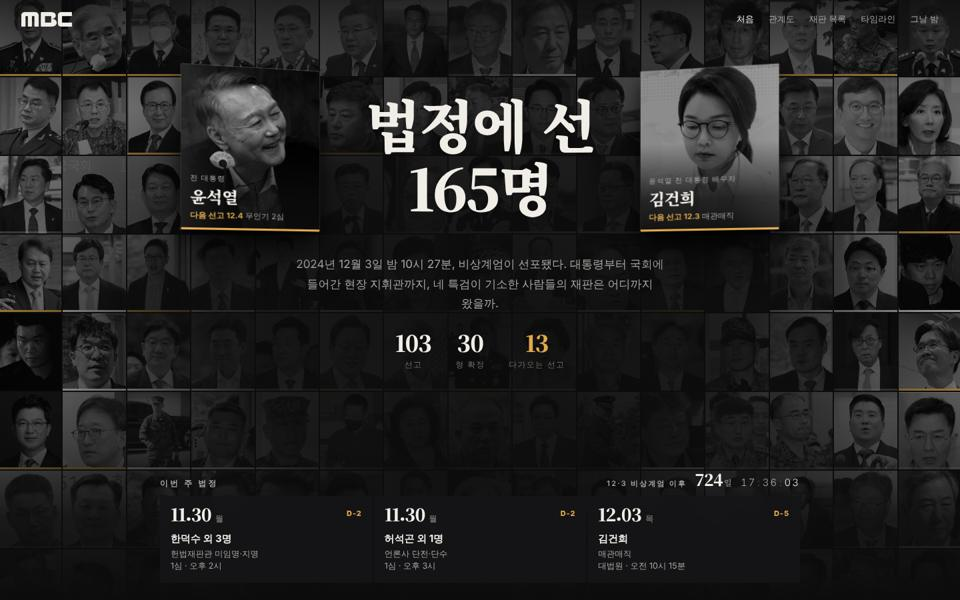
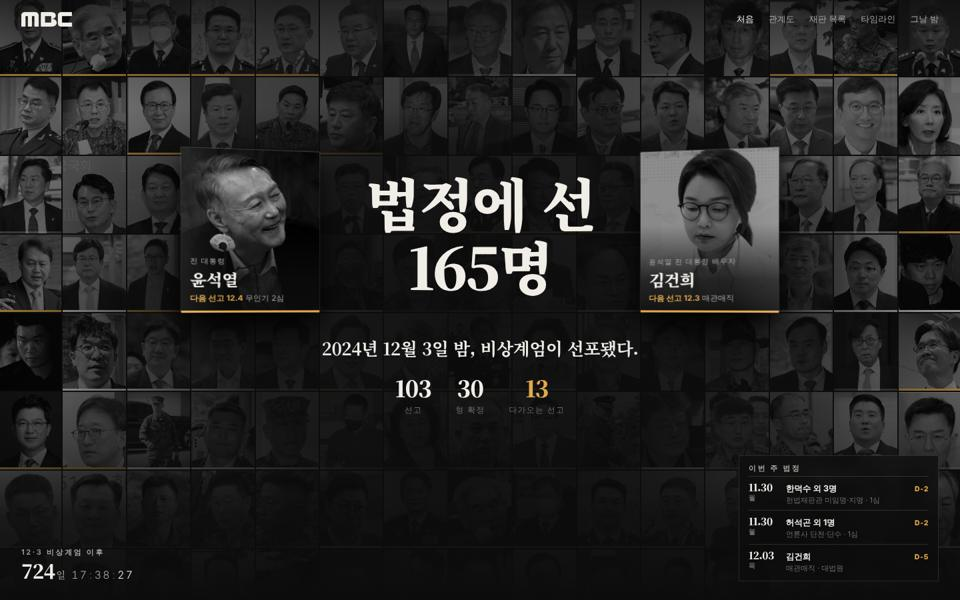
시안 2: 이번 주 법정은 오른쪽 아래 작은 목록, 흐른 시간은 왼쪽 아래, 설명은 한 줄로
Claude-Session: https://claude.ai/code/session_01SN42CiidXmnPBLY7TKBFnm

diff --git a/drafts/home-2.html b/drafts/home-2.html
@@ -37,18 +37,17 @@ body { margin: 0; background: var(--bg); color: var(--fg); font-family: var(--sa
 .veil { position: absolute; inset: 0; pointer-events: none;
   background: radial-gradient(ellipse 58% 58% at 50% 52%, rgba(12,12,13,.96) 0%, rgba(12,12,13,.88) 48%, rgba(12,12,13,.4) 82%, rgba(12,12,13,.2) 100%),
               linear-gradient(180deg, rgba(12,12,13,.75) 0, rgba(12,12,13,0) 18%, rgba(12,12,13,0) 66%, rgba(12,12,13,.85) 86%, var(--bg) 100%); }
-.hero { position: absolute; inset: 0; display: grid; place-items: center; text-align: center; padding: 60px 24px 212px; } /* 아래 212px: 이번 주 법정 칸 */
+.hero { position: absolute; inset: 0; display: grid; place-items: center; text-align: center; padding: 64px 24px 72px; }
 .hero > div { width: min(100%, 1120px); }
 .eyebrow { font-size: 12px; font-weight: 600; letter-spacing: .3em; color: var(--fg-2); }
 /* 흐른 시간: 문장 위 한 줄 */
-.timebar { position: absolute; z-index: 3; left: 0; right: 0; bottom: 34px; display: flex; justify-content: center; align-items: baseline; gap: 18px; text-align: center; }
-.timebar::before, .timebar::after { content: ''; flex: 0 1 120px; height: 1px; align-self: center; background: linear-gradient(90deg, rgba(241,238,232,0), rgba(241,238,232,.35)); }
-.timebar::after { background: linear-gradient(90deg, rgba(241,238,232,.35), rgba(241,238,232,0)); }
-.timebar .tb-l { font-size: 12px; font-weight: 600; letter-spacing: .3em; color: var(--fg-2); }
+.timebar { position: absolute; z-index: 3; left: 32px; bottom: 28px; text-align: left; }
+.timebar .tb-l { display: block; margin-bottom: 6px; font-size: 11px; font-weight: 600; letter-spacing: .24em; color: var(--fg-2); }
+.timebar .clock { justify-content: flex-start; gap: 10px; }
 .clock { display: flex; justify-content: center; align-items: baseline; gap: 14px; font-variant-numeric: tabular-nums; }
-.clock b { font-family: var(--serif); font-size: clamp(28px, 2.4vw, 34px); font-weight: 900; line-height: 1; letter-spacing: -.03em; }
+.clock b { font-family: var(--serif); font-size: clamp(24px, 2vw, 30px); font-weight: 900; line-height: 1; letter-spacing: -.03em; }
 .clock b small { font-size: .5em; font-weight: 500; margin-left: 2px; color: var(--fg-2); }
-.clock span { font-size: clamp(16px, 1.4vw, 20px); font-weight: 300; letter-spacing: .14em; color: var(--fg-2); }
+.clock span { font-size: clamp(14px, 1.1vw, 16px); font-weight: 300; letter-spacing: .14em; color: var(--fg-2); }
 .clock span i { font-style: normal; color: var(--fg-3); margin: 0 .1em; }
 .clock span em { font-style: normal; color: var(--fg); }
 /* 문장 양옆에 두 사람 */
@@ -77,6 +76,7 @@ body { margin: 0; background: var(--bg); color: var(--fg); font-family: var(--sa
 .lift .bar3 { position: absolute; left: 0; right: 0; bottom: 0; z-index: 1; height: 3px; background: var(--amber); }
 #liftY { --ry: 11deg; --sheen: 100deg; }
 #liftK { --ry: -11deg; --sheen: 260deg; }
+.hero p.line { margin: clamp(44px, 6.5vh, 64px) 0 0; max-width: none; white-space: nowrap; font-family: var(--serif); font-size: clamp(20px, 1.9vw, 26px); font-weight: 700; line-height: 1.3; letter-spacing: -.02em; color: var(--fg); }
 .hero p { margin: clamp(40px, 6vh, 60px) auto 0; max-width: 34em; font-size: 17px; line-height: 1.75; color: var(--fg-2); }
 .stats { display: flex; justify-content: center; gap: 36px; margin-top: 26px; }
 .stats div { text-align: center; }
@@ -92,20 +92,16 @@ body { margin: 0; background: var(--bg); color: var(--fg); font-family: var(--sa
 .legend li { display: flex; align-items: center; gap: 12px; padding: 10px 0; border-top: 1px solid var(--line); font-size: 14px; color: var(--fg-2); }
 .legend i { width: 36px; height: 3px; background: var(--c); }
 .legend b { margin-left: auto; font-family: var(--serif); font-size: 18px; color: var(--fg); }
-.dock { position: absolute; z-index: 3; left: 0; right: 0; bottom: 0; padding: 0 32px 26px; }
-.dock-in { max-width: 960px; margin: 0 auto; } /* 카드 3장: 가운데 문장 폭에 맞춤 */
-.dock-head { display: flex; justify-content: space-between; align-items: baseline; gap: 16px; margin-bottom: 10px; }
-.dock-head h2 { margin: 0; font-size: 12px; font-weight: 700; letter-spacing: .26em; color: var(--fg-2); }
-.dock .timebar { position: static; gap: 12px; }
-.dock .timebar::before, .dock .timebar::after { display: none; }
-.dock .timebar .tb-l { font-size: 11px; letter-spacing: .2em; }
-.dock .clock b { font-size: 24px; }
-.dock .clock span { font-size: 15px; }
-.week { display: grid; grid-template-columns: repeat(3, minmax(0, 1fr)); gap: 2px; }
-.dock .card { min-height: 0; padding: 14px 16px 15px; background: rgba(21, 21, 23, .9); -webkit-backdrop-filter: blur(8px); backdrop-filter: blur(8px); }
-.dock .card .d { font-size: 26px; }
-.dock .card .dd { top: 14px; }
-.dock .card b { margin-top: 14px; font-size: 15px; }
+.dock { position: absolute; z-index: 3; right: 32px; bottom: 28px; width: 300px; padding: 11px 14px 4px; background: rgba(12, 12, 13, .72);
+  -webkit-backdrop-filter: blur(10px); backdrop-filter: blur(10px); border: 1px solid rgba(241, 238, 232, .12); }
+.dock h2 { margin: 0 0 4px; font-size: 11px; font-weight: 700; letter-spacing: .24em; color: var(--fg-2); }
+.docket { list-style: none; margin: 0; padding: 0; }
+.docket li { display: grid; grid-template-columns: 46px minmax(0, 1fr) auto; gap: 10px; align-items: baseline; padding: 7px 0; border-top: 1px solid var(--line); }
+.docket time { font-family: var(--serif); font-size: 15px; font-weight: 900; letter-spacing: -.02em; line-height: 1.2; }
+.docket time small { display: block; font-family: var(--sans); font-size: 10px; font-weight: 600; letter-spacing: .08em; color: var(--fg-3); }
+.docket b { display: block; font-size: 12.5px; font-weight: 700; }
+.docket em { display: block; margin-top: 1px; font-style: normal; font-size: 11px; color: var(--fg-3); white-space: nowrap; overflow: hidden; text-overflow: ellipsis; }
+.docket i { font-style: normal; font-size: 10.5px; font-weight: 800; letter-spacing: .06em; color: var(--amber); }
 .card { position: relative; padding: 16px 16px 18px; background: #151517; min-height: 168px; }
 .card .d { font-family: var(--serif); font-size: 30px; font-weight: 900; letter-spacing: -.03em; line-height: 1; }
 .card .d small { margin-left: 6px; font-family: var(--sans); font-size: 12px; font-weight: 600; color: var(--fg-3); letter-spacing: .08em; }
@@ -128,19 +124,12 @@ body { margin: 0; background: var(--bg); color: var(--fg); font-family: var(--sa
   .grid { position: absolute; }
   .hero { position: relative; inset: auto; padding: 84px 16px 40px; }
   .hero { padding-bottom: 12px; }
-  .dock { position: relative; padding: 18px 0 30px; }
-  .dock-head { padding: 0 16px; }
-  .dock .timebar { gap: 8px; }
-  .dock .timebar .tb-l { display: none; }
-  .dock .clock b { font-size: 20px; }
-  .dock .clock span { font-size: 13px; }
-  .dock .week { gap: 4px; padding: 0 16px; }
-  .dock .card { padding: 10px 10px 12px; }
-  .dock .card .d { font-size: 19px; }
-  .dock .card .d small { display: block; margin: 4px 0 0; font-size: 10px; }
-  .dock .card .dd { top: 10px; right: 10px; font-size: 10px; }
-  .dock .card b { margin-top: 8px; font-size: 13px; }
-  .dock .card span { font-size: 11px; }
+  .timebar { position: relative; left: auto; bottom: auto; padding: 18px 16px 0; text-align: center; }
+  .timebar .tb-l { letter-spacing: .14em; margin-bottom: 4px; }
+  .timebar .clock { justify-content: center; }
+  .clock b { font-size: 24px; }
+  .clock span { font-size: 14px; }
+  .dock { position: relative; right: auto; bottom: auto; width: auto; margin: 14px 16px 28px; }
   .clock b { font-size: 28px; }
   .clock span { font-size: 16px; }
   .headrow { margin-top: 20px; }
@@ -149,12 +138,10 @@ body { margin: 0; background: var(--bg); color: var(--fg); font-family: var(--sa
   .lift .lab small, .lift .lab span { display: none; }
   .lift .lab b { font-size: 14px; }
   #liftY { --ry: 9deg; } #liftK { --ry: -9deg; }
-  .hero p { font-size: 14px; line-height: 1.7; margin-top: 32px; }
-  @media (max-height: 680px) and (max-width: 360px) { .hero { padding-top: 74px; } .hero p { margin-top: 26px; font-size: 13.5px; } .stats { margin-top: 16px; } .dock { padding-top: 12px; padding-bottom: 20px; } }
+  .hero p.line { margin-top: 30px; font-size: min(19px, 4.6vw); }
+  @media (max-height: 680px) and (max-width: 360px) { .hero { padding-top: 74px; } .hero p.line { margin-top: 26px; } .stats { margin-top: 16px; } .timebar { padding-top: 12px; } .dock { margin-bottom: 20px; } }
   .stats { gap: 22px; } .stats b { font-size: 26px; }
   .below { padding: 28px 16px 40px; }
-  .week { grid-template-columns: repeat(3, minmax(0, 1fr)); }
-  .card { min-height: 0; }
   .foot { padding: 0 16px 32px; flex-direction: column; gap: 4px; }
 }
 </style>
@@ -172,17 +159,18 @@ body { margin: 0; background: var(--bg); color: var(--fg); font-family: var(--sa
   </div>
   <div class="hero"><div>
     <div class="headrow"><h1 id="headline">법정에 선<br>165명</h1></div>
-    <p>2024년 12월 3일 밤 10시 27분, 비상계엄이 선포됐다. 대통령부터 국회에 들어간 현장 지휘관까지, 네 특검이 기소한 사람들의 재판은 어디까지 왔을까.</p>
+    <p class="line">2024년 12월 3일 밤, 비상계엄이 선포됐다.</p>
     <div class="stats"><div><b>103</b><span>선고</span></div><div><b>30</b><span>형 확정</span></div><div class="next"><b>13</b><span>다가오는 선고</span></div></div>
   </div></div>
-  <div class="dock"><div class="dock-in">
-    <div class="dock-head"><h2>이번 주 법정</h2><div class="timebar"><span class="tb-l">12·3 비상계엄 이후</span><span class="clock" id="clock" role="timer"><b>724<small>일</small></b><span>16<i>:</i>52<i>:</i><em>49</em></span></span></div></div>
-    <div class="week">
-      <div class="card"><span class="dd">D-2</span><div class="d">11.30<small>월</small></div><b>한덕수 외 3명</b><span>헌법재판관 미임명·지명<br>1심 · 오후 2시</span></div>
-      <div class="card"><span class="dd">D-2</span><div class="d">11.30<small>월</small></div><b>허석곤 외 1명</b><span>언론사 단전·단수<br>1심 · 오후 3시</span></div>
-      <div class="card"><span class="dd">D-5</span><div class="d">12.03<small>목</small></div><b>김건희</b><span>매관매직<br>대법원 · 오전 10시 15분</span></div>
-    </div>
-  </div></div>
+  <div class="timebar"><span class="tb-l">12·3 비상계엄 이후</span><span class="clock" id="clock" role="timer"><b>724<small>일</small></b><span>16<i>:</i>52<i>:</i><em>49</em></span></span></div>
+  <aside class="dock" aria-label="이번 주 법정">
+    <h2>이번 주 법정</h2>
+    <ol class="docket">
+      <li><time>11.30<small>월</small></time><span><b>한덕수 외 3명</b><em>헌법재판관 미임명·지명 · 1심</em></span><i>D-2</i></li>
+      <li><time>11.30<small>월</small></time><span><b>허석곤 외 1명</b><em>언론사 단전·단수 · 1심</em></span><i>D-2</i></li>
+      <li><time>12.03<small>목</small></time><span><b>김건희</b><em>매관매직 · 대법원</em></span><i>D-5</i></li>
+    </ol>
+  </aside>
 </section>
 <section class="below">
   <div>
@@ -237,7 +225,7 @@ body { margin: 0; background: var(--bg); color: var(--fg); font-family: var(--sa
     //  (아래 '이번 주 법정'·위 머리글과 부딪히지 않는 줄을 고름)
     const bh = ch * 2 + gap, exact = (hc - bh / 2 - y(0)) / (ch + gap);
     const stB = document.querySelector('.stats').getBoundingClientRect().bottom - W.top;
-    const dkT = document.querySelector('.dock-head').getBoundingClientRect().top - W.top;
+    const tbEl = document.querySelector('.timebar'), dkT = getComputedStyle(tbEl).position === 'absolute' ? W.height - 16 : tbEl.getBoundingClientRect().top - W.top;
     const hT = heroIn.getBoundingClientRect().top - W.top;
     const cands = [...new Set([Math.round(exact), Math.floor(exact), Math.ceil(exact)])].filter(r => r >= 0)
       .map(r => ({ r, d: y(r) + bh / 2 - hc })).sort((a, b) => Math.abs(a.d) - Math.abs(b.d));
